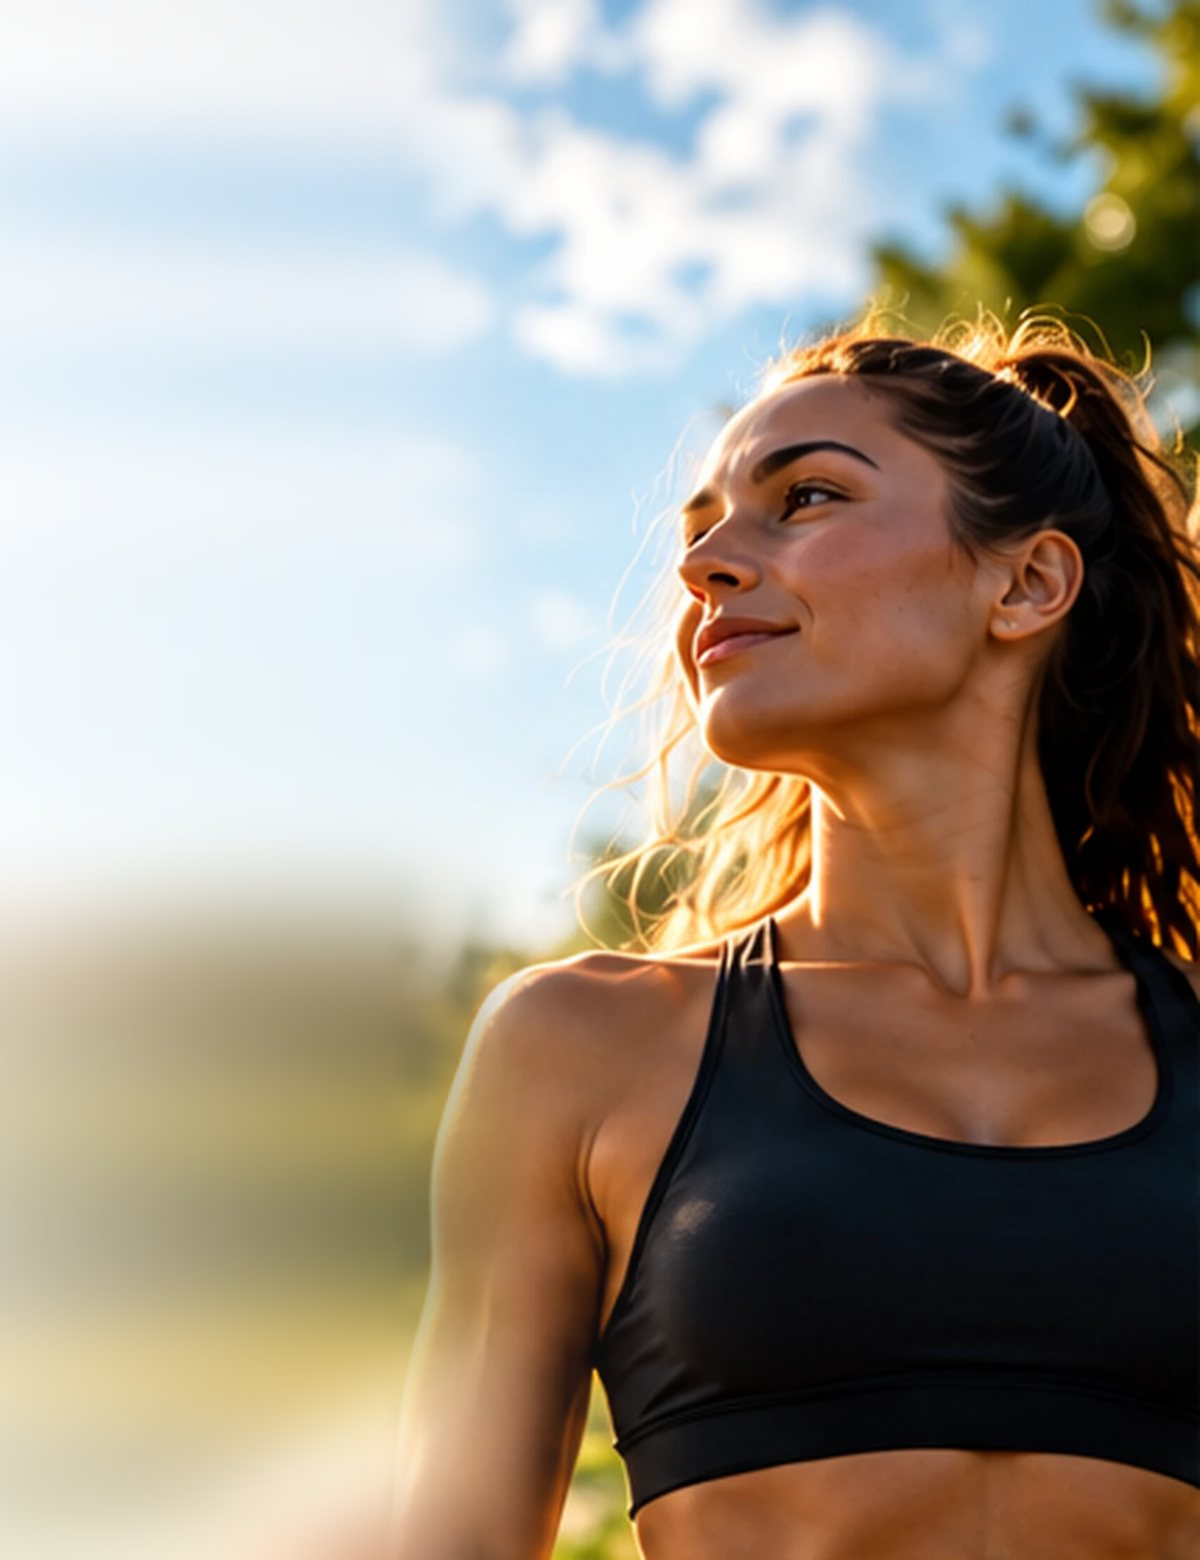
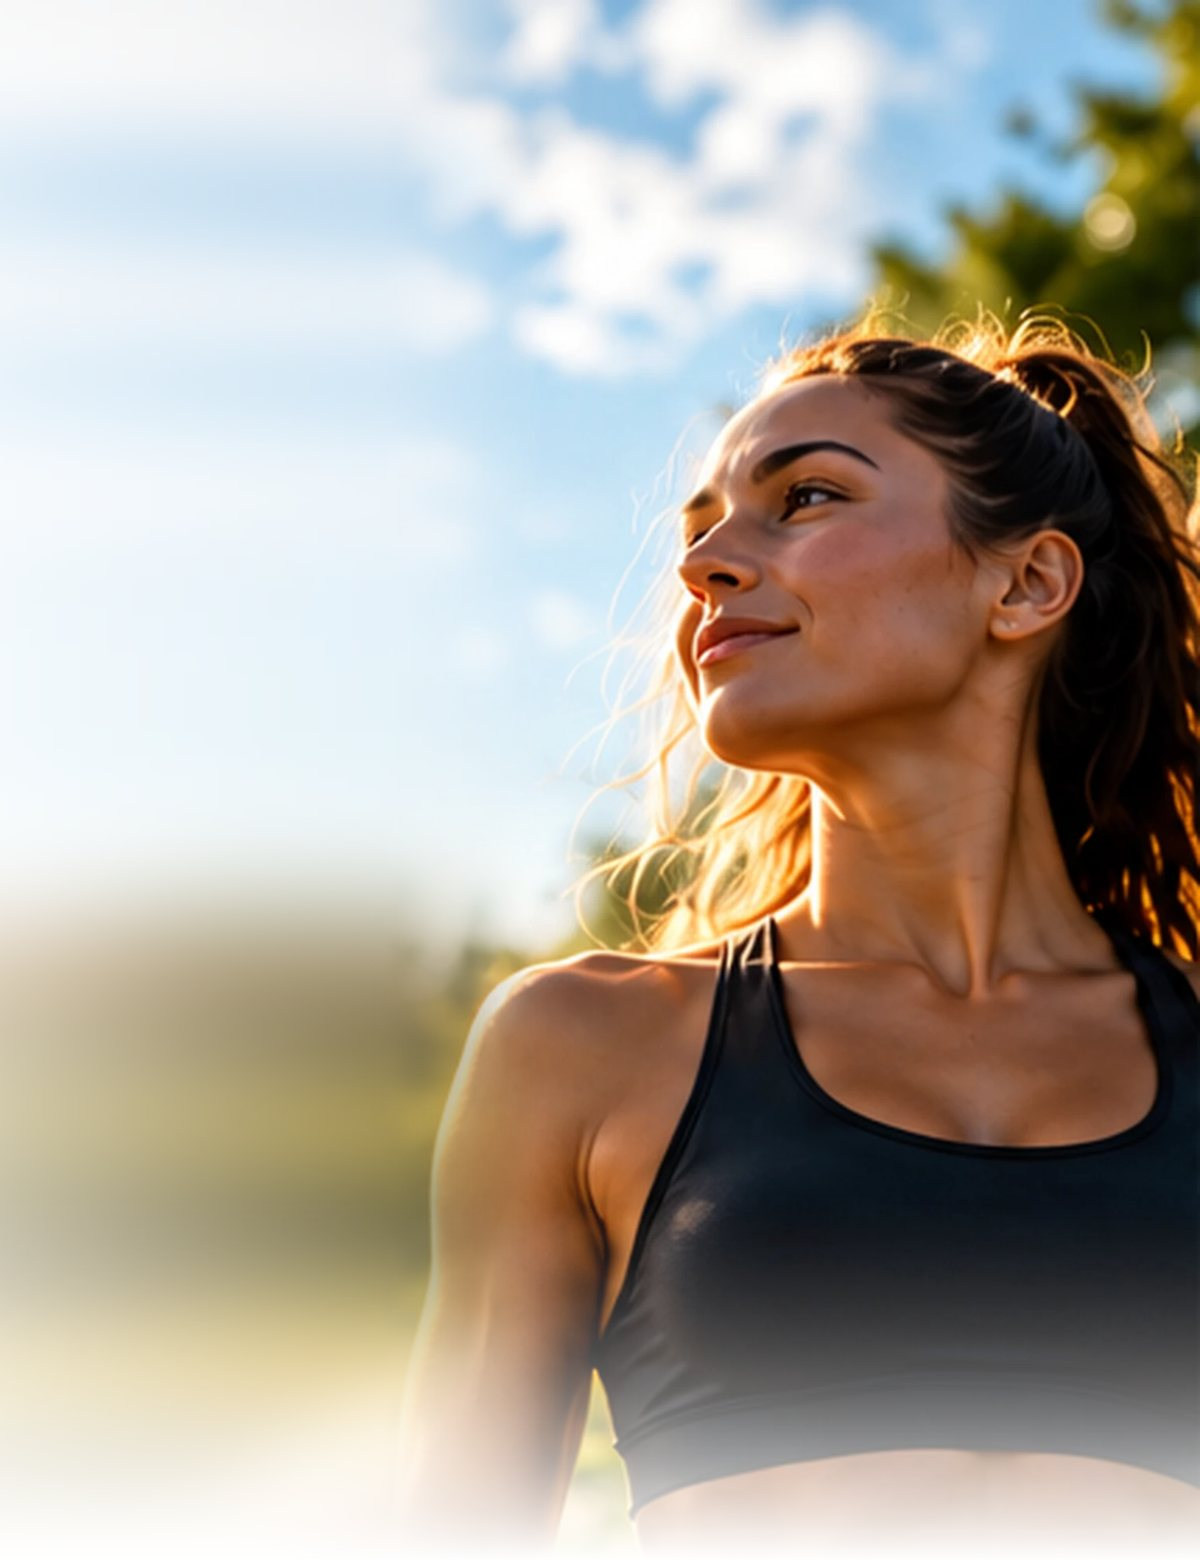
Welcome 2: larger desktop type; the photo fades to white at its foot
- Desktop: 46px headline, 21px line under it, 17px benefits in 58px
  rings, a larger button. Phones keep their sizes.
- The cover photo fades to white over its lower quarter, into the email
  below (baked into the image, so every client shows it).

Claude-Session: https://claude.ai/code/session_01D9wyYeR5ucDGRSLEYABcrG

Changed region(s): [[0.0, 0.8, 1.0, 1.0]]

diff --git a/lib/email-flows/render.ts b/lib/email-flows/render.ts
@@ -231,7 +231,7 @@ function button(k: Kit, label: string, url: string, opts: { light?: boolean; urg
     <table role="presentation" cellpadding="0" cellspacing="0" border="0" align="${opts.align ?? 'center'}" style="margin: ${opts.align === 'left' ? '6px 0 4px' : '6px auto 4px'};">
       <tr>
         <td align="center" bgcolor="${bg}" style="border-radius: 8px; background: ${bg};">
-          <a href="${escapeHtml(href)}"${opts.wide ? ' class="ef-btn-wide"' : ''} style="display: inline-block; padding: ${opts.large ? '19px 76px' : opts.wide ? '15px 64px' : '14px 34px'}; font-family: ${T.font}; font-size: ${opts.large ? '14px' : '12px'}; font-weight: 700; letter-spacing: 0.14em; text-transform: uppercase; color: ${fg}; text-decoration: none; border-radius: 8px;">${escapeHtml(text)} &nbsp;&rarr;</a>
+          <a href="${escapeHtml(href)}"${opts.wide ? ' class="ef-btn-wide"' : ''} style="display: inline-block; padding: ${opts.large ? '21px 84px' : opts.wide ? '15px 64px' : '14px 34px'}; font-family: ${T.font}; font-size: ${opts.large ? '15px' : '12px'}; font-weight: 700; letter-spacing: 0.14em; text-transform: uppercase; color: ${fg}; text-decoration: none; border-radius: 8px;">${escapeHtml(text)} &nbsp;&rarr;</a>
         </td>
       </tr>
     </table>`;
@@ -270,8 +270,8 @@ function badges(k: Kit, items: Highlight[], dark = false): string {
 function checklist(k: Kit, items: Highlight[], opts: { width?: number; large?: boolean } = {}): string {
   const list = items.map((h) => ({ ...h, label: k.m(h.label) })).filter((h) => h.label);
   if (!list.length) return '';
-  const ring = opts.large ? 50 : 38;
-  const glyph = opts.large ? 26 : 20;
+  const ring = opts.large ? 58 : 38;
+  const glyph = opts.large ? 30 : 20;
   const cls = (name: string) => (opts.large ? ` class="${name}"` : '');
   // A set width makes longer labels wrap onto two lines, as in the cover designs.
   const width = opts.width ? ` width="${opts.width}"` : '';
@@ -281,14 +281,14 @@ function checklist(k: Kit, items: Highlight[], opts: { width?: number; large?: b
         .map(
           (h) => `
         <tr>
-          <td valign="middle" style="padding: ${opts.large ? '8px 18px 8px 0' : '6px 14px 6px 0'};">
+          <td valign="middle" style="padding: ${opts.large ? '8px 20px 8px 0' : '6px 14px 6px 0'};">
             <table role="presentation" cellpadding="0" cellspacing="0" border="0" style="border-collapse: separate;">
               <tr><td${cls('ef-check-ring')} align="center" valign="middle" width="${ring}" height="${ring}" style="width: ${ring}px; height: ${ring}px; border: 1px solid ${T.border}; border-radius: ${ring / 2}px; background: #FFFFFF;">
                 <img${cls('ef-check-glyph')} src="${escapeHtml(iconSrc(k, h.icon, false))}" width="${glyph}" height="${glyph}" alt="" style="display: block; margin: 0 auto; border: 0;" />
               </td></tr>
             </table>
           </td>
-          <td${cls('ef-check-label')} valign="middle" style="padding: ${opts.large ? '8px 0' : '6px 0'}; font-family: ${T.font}; font-size: ${opts.large ? '15px' : '12px'}; font-weight: 700; letter-spacing: 0.08em; line-height: 1.35; text-transform: uppercase; color: ${T.ink};">${escapeHtml(h.label)}</td>
+          <td${cls('ef-check-label')} valign="middle" style="padding: ${opts.large ? '8px 0' : '6px 0'}; font-family: ${T.font}; font-size: ${opts.large ? '17px' : '12px'}; font-weight: 700; letter-spacing: 0.08em; line-height: 1.35; text-transform: uppercase; color: ${T.ink};">${escapeHtml(h.label)}</td>
         </tr>`,
         )
         .join('')}
@@ -517,12 +517,12 @@ function educationLayout(k: Kit): string {
       '.ef-check-label { font-size: 12px !important; }',
     );
     const top = `
-      ${headline ? `<h1 class="ef-edu-h1" style="font-family: ${T.display}; font-size: 40px; font-weight: 700; line-height: 1.12; color: ${c.heading}; margin: 0 0 16px; max-width: 470px; text-wrap: balance; ${c.shadow}">${escapeHtml(headline)}</h1>` : ''}
-      ${sub ? `<table role="presentation" cellpadding="0" cellspacing="0" border="0" width="345" class="ef-edu-subcol" style="width: 345px; max-width: 100%;"><tr><td>
-        <p class="ef-edu-sub" style="font-family: ${T.font}; font-size: 19px; line-height: 1.5; color: ${c.body}; margin: 0; ${c.shadow}">${escapeHtml(sub)}</p>
+      ${headline ? `<h1 class="ef-edu-h1" style="font-family: ${T.display}; font-size: 46px; font-weight: 700; line-height: 1.1; color: ${c.heading}; margin: 0 0 18px; max-width: 536px; text-wrap: balance; ${c.shadow}">${escapeHtml(headline)}</h1>` : ''}
+      ${sub ? `<table role="presentation" cellpadding="0" cellspacing="0" border="0" width="390" class="ef-edu-subcol" style="width: 390px; max-width: 100%;"><tr><td>
+        <p class="ef-edu-sub" style="font-family: ${T.font}; font-size: 21px; line-height: 1.45; color: ${c.body}; margin: 0; ${c.shadow}">${escapeHtml(sub)}</p>
       </td></tr></table>` : ''}
       <div style="height: 26px; line-height: 26px; font-size: 0;">&nbsp;</div>
-      ${checklist(k, s.highlights, { width: 270, large: true })}
+      ${checklist(k, s.highlights, { width: 320, large: true })}
       ${paragraphs(k.m(s.body), c.body)}`;
     return [
       coverHero(

diff --git a/lib/email-flows/email-flows.test.ts b/lib/email-flows/email-flows.test.ts
@@ -572,9 +572,9 @@ test('the text sits on the photo in welcome 2, 3 and 5, as designed', () => {
   assert.match(twoHtml, /class="ef-btn-wide"/);
   assert.match(twoHtml, /\.ef-btn-wide \{ padding: 15px 30px !important; font-size: 12px !important; \}/, 'narrower on phones');
   // Desktop gets the design's large type; phones set it back.
-  assert.match(twoHtml, /class="ef-edu-h1" style="[^"]*font-size: 40px;/);
-  assert.match(twoHtml, /class="ef-edu-sub" style="[^"]*font-size: 19px;/);
-  assert.match(twoHtml, /class="ef-check-label"[^>]*font-size: 15px;/);
+  assert.match(twoHtml, /class="ef-edu-h1" style="[^"]*font-size: 46px;/);
+  assert.match(twoHtml, /class="ef-edu-sub" style="[^"]*font-size: 21px;/);
+  assert.match(twoHtml, /class="ef-check-label"[^>]*font-size: 17px;/);
   const phone = twoHtml.slice(twoHtml.indexOf('@media'), twoHtml.indexOf('</style>'));
   assert.match(phone, /\.ef-edu-h1 \{ font-size: 28px !important;/);
   assert.match(phone, /\.ef-edu-sub \{ font-size: 15px !important; \}/);

diff --git a/docs/changelog/2026-10-15-email-flows.md b/docs/changelog/2026-10-15-email-flows.md
@@ -233,8 +233,9 @@ slightly; on `woman-lake-dark` it is darkened for the white title. `woman-portra
 woman in the sun, shown top to bottom: it is scaled to the cover's height,
 so it sits narrower on the right. Its own sky is stretched into a soft haze
 on the left behind the copy. It is saved 1200 wide for sharp screens.
-On desktop the Welcome 2 cover uses the design's large type (40px
-headline, 19px line, 15px benefits in 50px rings, a larger button). Phones
+The photo fades to white at its foot, into the email below. On desktop the
+Welcome 2 cover uses large type (46px headline, 21px line, 17px benefits in
+58px rings, a larger button). Phones
 set it back to the smaller sizes so the photo still shows.
 
 Where the designs set the text over the photo (Welcome 1, 2, 3 and 5,
